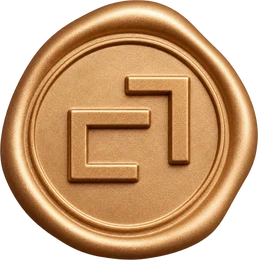
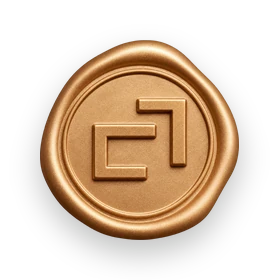
Invitación navideña: sello más pequeño y sin recuadro oscuro
- Se limpian los píxeles semitransparentes del fondo del sello.
- La sombra se integra en la imagen en lugar de filter: drop-shadow,
  que Safari de iPhone dibujaba como un recuadro.
- El sello pasa de 86 a unos 64 px visibles.

Claude-Session: https://claude.ai/code/session_01SfKg2id6fdKLqRWJFKd3XS

diff --git a/public/cena-navidena/index.html b/public/cena-navidena/index.html
@@ -178,7 +178,7 @@ section{padding-block:72px}
 .env-front{top:0;height:100%;z-index:2;overflow:visible}
 .flap{top:0;height:62%;z-index:3;transform-origin:50% 0;transition:transform .8s cubic-bezier(.5,0,.2,1) .2s,z-index 0s .6s}
 .env svg path{vector-effect:non-scaling-stroke}
-.wax{left:50%!important;width:86px!important;height:auto;max-width:none;top:62%;transform:translate(-50%,-50%);z-index:4;filter:drop-shadow(0 6px 10px rgba(0,0,0,.5));transition:transform .4s ease,opacity .4s ease}
+.wax{left:50%!important;width:90px!important;height:auto;max-width:none;top:62%;transform:translate(-50%,-50%);z-index:4;transition:transform .4s ease,opacity .4s ease}
 .env.open{animation:none}
 .env.open .wax{opacity:0;transform:translate(-50%,-50%) scale(.6)}
 .env.open .flap{transform:rotateX(180deg);z-index:0}
@@ -229,7 +229,7 @@ section{padding-block:72px}
       <div class="letter"><span>Equipo Stroit</span><b>Save the date</b><span>18 · 12 · 26</span></div>
       <svg class="env-front" viewBox="0 0 100 70" preserveAspectRatio="none" aria-hidden="true"><path d="M0 0L50 38L100 0V70H0Z" fill="#15342c" stroke="#c8a160" stroke-width="1"/><path d="M0 70L43 33M100 70L57 33" fill="none" stroke="#c8a160" stroke-width="1" opacity=".5"/></svg>
       <svg class="flap" viewBox="0 0 100 100" preserveAspectRatio="none" aria-hidden="true"><path d="M0 0H100L50 100Z" fill="#18392f" stroke="#c8a160" stroke-width="1"/></svg>
-      <img class="wax" src="/cena-navidena/sello.webp" alt="" width="258" height="260" aria-hidden="true">
+      <img class="wax" src="/cena-navidena/sello.webp" alt="" width="279" height="280" aria-hidden="true">
     </button>
     <div class="hint">Toca el sobre para abrir</div>
   </div>
